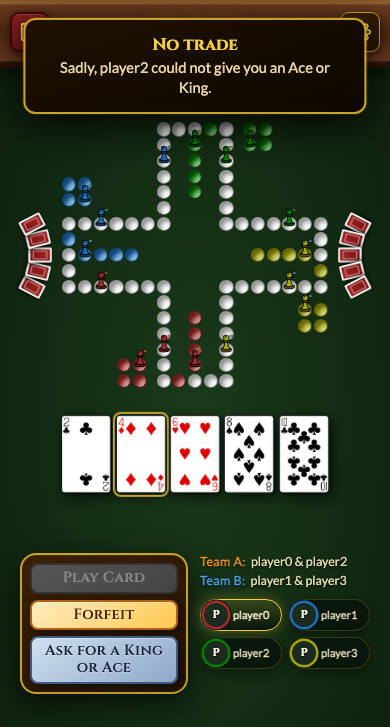
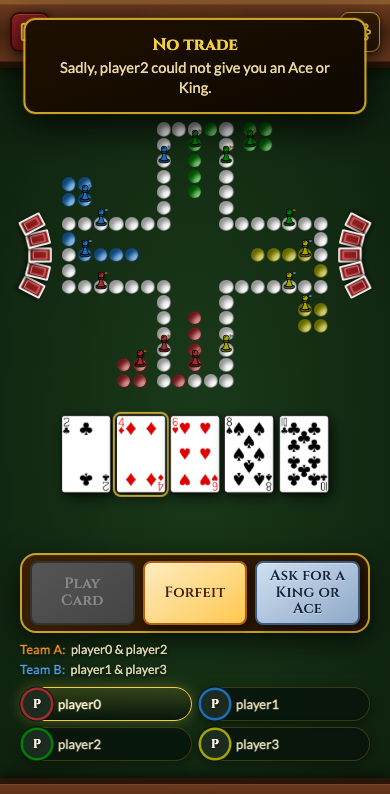
feat(mobile): play/forfeit in one row, roster full width below
The buttons share one row and the roster spans the screen under them,
so player names are no longer cut off after a few letters. The 7-split
takes the roster's place while it is open. The board now measures the
controls and takes exactly the height left, so a big game no longer
pushes its last players under the footer.

diff --git a/frontend/src/app/features/board/board.scss b/frontend/src/app/features/board/board.scss
@@ -187,17 +187,14 @@
 // Sized as a fraction of the board so it scales; carries NO card value.
 // Button container — ported from the GWT .buttonContainer/.sendButton/.forfeitButton.
 // A dark gold-bordered panel beside the board with the play (send) + forfeit buttons.
-// Actions + roster. Mobile: two anchored halves on one row — the buttons keep their
-// width on the left, the roster fills the rest and runs out toward the right edge (so
-// player names get as much room as the screen allows). Desktop: a column pinned in the
-// right gutter (which has plenty of room), roster enlarged.
+// Actions + roster. Mobile: the buttons side by side in one row, the roster below them
+// across the full width (so player names get as much room as the screen allows).
+// Desktop: a column pinned in the right gutter (which has plenty of room), roster enlarged.
 .controls {
-  display: grid;
-  // buttons take their content width; the roster (minmax(0,…) so it may shrink, not
-  // overflow) fills from there out to the right padding below.
-  grid-template-columns: auto minmax(0, 1fr);
-  align-items: start;
-  column-gap: 12px;
+  display: flex;
+  flex-direction: column;
+  align-items: stretch;
+  gap: 10px;
   width: 100%;
   box-sizing: border-box; // keep the padded row within the viewport
   margin-top: 8px;
@@ -222,6 +219,20 @@
     gap: 18px;
     z-index: 200;
   }
+}
+
+// The roster and, on a phone, the 7-split stacked in one grid cell: the split covers the roster
+// while it is open, and the cell keeps the taller one's height so nothing below shifts.
+.controls__roster-slot {
+  display: grid;
+
+  > * {
+    grid-area: 1 / 1;
+  }
+}
+
+.controls__covered {
+  visibility: hidden;
 }
 
 .button-container {
@@ -335,28 +346,42 @@
 }
 
 // Narrow / short screens: the controls sit in flow below the hint, so reserve
-// extra height for them when sizing the board, and cap the buttons so long labels
-// ("Jouer la carte", "Karte spielen") wrap to two lines and the box stays narrow
-// enough to share the row with the roster in every language instead of pushing it
-// onto a second (overflowing) row. Placed last so it overrides the base button
-// rules above (notably the `font` shorthand, which would otherwise reset the size).
+// extra height for them when sizing the board. The buttons share one row, so long
+// labels ("Jouer la carte", "Karte spielen") wrap to two lines rather than pushing
+// the row off the screen. Placed last so it overrides the base button rules above
+// (notably the `font` shorthand, which would otherwise reset the size).
 @media (max-width: 699px) {
   .play {
-    --board-w: min(600px, calc(96vw / 1.24), calc((100dvh - 300px - var(--hint-row-h)) / 1.42));
+    // The height budget leaves room for the header, footer and margins (--phone-chrome-h), the
+    // hint row, and the buttons + roster below the hand, which the board measures (--controls-h):
+    // their height varies with player count, team lines and wrapped button labels, and the board
+    // takes everything that is left — never so much that the roster slides under the footer.
+    --phone-chrome-h: 150px;
+    --board-w: min(
+      600px,
+      calc(96vw / 1.24),
+      calc((100dvh - var(--phone-chrome-h) - var(--controls-h, 100px) - var(--hint-row-h)) / 1.42)
+    );
     // The footer is fixed over the bottom ~48px of the viewport. If content ever overflows and
     // the page scrolls, reserve that height plus the safe-area inset so the last controls row
     // clears the footer instead of hiding behind it.
     padding-bottom: calc(56px + env(safe-area-inset-bottom, 0px));
   }
 
+  // All buttons on one row, sharing it evenly.
   .button-container {
-    padding: 8px;
-    gap: 6px;
-    max-width: 148px;
+    flex-direction: row;
+    padding: 6px 8px;
+    gap: 8px;
+  }
+  .controls {
+    gap: 8px;
   }
   .send-button,
   .forfeit-button,
   .ask-trade-button {
+    flex: 1 1 0;
+    min-width: 0;
     font-size: 11pt;
     padding: 5px 10px;
     letter-spacing: 0.3px;

diff --git a/frontend/src/app/features/board/board.html b/frontend/src/app/features/board/board.html
@@ -1,5 +1,9 @@
 @if (tiles().length) {
-  <div class="play" [class.play--no-hints]="!cardHints.visible()">
+  <div
+    class="play"
+    [class.play--no-hints]="!cardHints.visible()"
+    [style.--controls-h.px]="controlsHeight() || null"
+  >
     <div class="stage">
       <div class="board" [style.--cell]="cell() / 6">
         @for (t of tiles(); track t.playerId + ':' + t.tileNr) {
@@ -54,30 +58,16 @@
          A flow row centered below the hand; the cards stay absolutely positioned so
          a played card can still fly to the pile.
 
-         On a phone the 7-split takes this slot: a full-width band under the hand, rather than a
-         tall block under the buttons that ran off the bottom of the screen. The hint itself goes
-         quiet as soon as a second pawn is picked — by then you are plainly past needing it — but
-         the row keeps its height so nothing below shifts. A player who turned the hints off gets
-         no row at all, and the board takes its height. -->
-    @if (selection.splitVisible() && isPhone()) {
-      <app-split-steps
-        class="split-steps--inline"
-        [steps1]="selection.stepsPawn1()"
-        [steps2]="selection.stepsPawn2()"
-        [color1]="pawn1Highlight()"
-        [color2]="pawn2Highlight()"
-        [label1]="i18n.t('pawn1')"
-        [label2]="i18n.t('pawn2')"
-        (steps1Change)="selection.setStepsPawn1($event)"
-        (steps2Change)="selection.setStepsPawn2($event)"
-      />
-    } @else if (cardHints.visible()) {
+         The hint goes quiet as soon as a second pawn is picked — by then you are plainly past
+         needing it — but the row keeps its height so nothing below shifts. A player who turned the
+         hints off gets no row at all, and the board takes its height. -->
+    @if (cardHints.visible()) {
       <div class="card-hint">{{ selection.splitVisible() ? '' : hint() }}</div>
     }
 
-    <!-- Actions + roster. Desktop: a column pinned to the right gutter. Mobile: a
-         row directly below the hint. -->
-    <div class="controls">
+    <!-- Actions + roster. Desktop: a column pinned to the right gutter. Mobile: the buttons in one
+         row below the hint, the roster under them across the full width. -->
+    <div class="controls" #controls>
       <div class="button-container">
         <button class="send-button" [disabled]="!canPlay()" (click)="playCard()">
           {{ i18n.t('playCard') }}
@@ -92,7 +82,7 @@
         }
 
         <!-- 7-split: divide the 7 across the two selected pawns (sum stays 7). The phone
-             layout renders this under the hand instead (see the hint slot above). -->
+             layout puts this in the roster's place instead (see below). -->
         @if (selection.splitVisible() && !isPhone()) {
           <app-split-steps
             [steps1]="selection.stepsPawn1()"
@@ -107,7 +97,26 @@
         }
       </div>
 
-      <app-player-list />
+      <!-- On a phone the 7-split takes the roster's place while it is open: it is your turn, so
+           the roster has nothing to tell you then, and its space is right under the buttons. The
+           roster stays in the cell (only hidden), so the controls keep their height and nothing
+           below jumps when the split appears or goes. -->
+      <div class="controls__roster-slot">
+        <app-player-list [class.controls__covered]="selection.splitVisible() && isPhone()" />
+        @if (selection.splitVisible() && isPhone()) {
+          <app-split-steps
+            class="split-steps--inline"
+            [steps1]="selection.stepsPawn1()"
+            [steps2]="selection.stepsPawn2()"
+            [color1]="pawn1Highlight()"
+            [color2]="pawn2Highlight()"
+            [label1]="i18n.t('pawn1')"
+            [label2]="i18n.t('pawn2')"
+            (steps1Change)="selection.setStepsPawn1($event)"
+            (steps2Change)="selection.setStepsPawn2($event)"
+          />
+        }
+      </div>
     </div>
   </div>
 

diff --git a/frontend/e2e/mobile-layout.spec.ts b/frontend/e2e/mobile-layout.spec.ts
@@ -1,4 +1,6 @@
-import { test, expect } from '@playwright/test';
+import { test, expect, request } from '@playwright/test';
+import { API_URL } from '../playwright.config';
+import { createGame } from './support/seed';
 import { openBoard } from './support/steps';
 
 // Rewrite of MobileLayoutCheck_IT: on the mobile layout the board, the roster and
@@ -49,5 +51,58 @@ test.describe('mobile layout (MobileLayoutCheck_IT)', () => {
 
       await page.context().close();
     });
+  }
+});
+
+// On a phone the roster spans the screen below the buttons, so a big game takes real height — and
+// the footer bar is fixed over the bottom of the screen. The board sizes itself to leave the
+// controls exactly the room they measure; if it took more, the last players would slide under the
+// footer. "On screen" alone doesn't catch that: the footer covers part of the screen.
+const ROSTERS = [
+  { label: '2 players', players: 2 },
+  { label: '8 players', players: 8 },
+  { label: '6 players in teams', players: 6, gameOptions: { teamPlay: true } }, // + team lines
+];
+const PHONES = [
+  { label: 'short phone', width: 375, height: 667 }, // where the board is height-limited
+  { label: 'tall phone', width: 390, height: 844 },
+];
+
+test.describe('phone roster clears the footer', () => {
+  for (const roster of ROSTERS) {
+    for (const phone of PHONES) {
+      for (const hints of ['on', 'off']) {
+        test(`${roster.label} · ${phone.label} · hints ${hints}`, async ({ browser }) => {
+          const api = await request.newContext({ baseURL: API_URL });
+          const { sessionId } = await createGame(api, roster.players, roster.gameOptions);
+          await api.dispose();
+          const ctx = await browser.newContext({ viewport: phone });
+          await ctx.addCookies([
+            { name: 'playerid', value: 'player0', url: 'http://localhost:4300' },
+            { name: 'cardHints', value: hints === 'on' ? '1' : '0', url: 'http://localhost:4300' },
+          ]);
+          const page = await ctx.newPage();
+          await page.goto(`/?sessionid=${sessionId}&playerid=player0`);
+          await expect(page.locator('.chip')).toHaveCount(roster.players);
+
+          const g = await page.evaluate(() => ({
+            lastChipBottom: Math.max(
+              ...[...document.querySelectorAll('.chip')].map(
+                (c) => c.getBoundingClientRect().bottom,
+              ),
+            ),
+            footerTop: document.querySelector('.footer-bar')!.getBoundingClientRect().top,
+            board: document.querySelector('.board')!.getBoundingClientRect(),
+          }));
+
+          expect(g.lastChipBottom, 'the last players slide under the footer').toBeLessThanOrEqual(
+            g.footerTop,
+          );
+          expect(g.board.width, 'the board shrank to nothing').toBeGreaterThan(150);
+
+          await ctx.close();
+        });
+      }
+    }
   }
 });

diff --git a/frontend/e2e/controls-layout.spec.ts b/frontend/e2e/controls-layout.spec.ts
@@ -106,8 +106,8 @@ test.describe('controls + roster placement', () => {
   }
 
   // Selecting a 7 with two pawns reveals the split step boxes. Where they belong depends on the
-  // layout: tucked inside the button box on desktop, but a band under the hand on a phone —
-  // stacked under the buttons they made that column so tall the last row fell off the screen.
+  // layout: tucked inside the button box on desktop, but on a phone in the roster's place right
+  // under the buttons — it is your turn, so the roster has nothing to tell you then.
   for (const vp of VIEWPORTS) {
     for (const lang of LANGS) {
       test(`${vp.name} · ${lang} · 7-split step boxes`, async ({ browser }) => {
@@ -141,6 +141,8 @@ test.describe('controls + roster placement', () => {
           return {
             box: rj('.button-container'),
             controls: rj('.controls'),
+            roster: rj('app-player-list'),
+            rosterHidden: getComputedStyle(document.querySelector('app-player-list')!).visibility,
             split: rj('.pawn-steps'),
             nestedInButtonBox: document.querySelectorAll('.button-container .pawn-steps').length,
             splitParts: [
@@ -168,8 +170,8 @@ test.describe('controls + roster placement', () => {
             );
           }
         } else {
-          // The phone lifts it out into a full-width band above the controls. The rule that
-          // matters there is that all of it is on screen — it used to run off the bottom.
+          // The phone puts it where the roster was: below the buttons, the roster hidden under it.
+          // All of it on screen — it once ran off the bottom.
           expect(g.nestedInButtonBox, 'the phone must not nest the split in the button box').toBe(
             0,
           );
@@ -178,9 +180,13 @@ test.describe('controls + roster placement', () => {
             expect(el.right, 'split control off screen (right)').toBeLessThanOrEqual(g.vw + T);
             expect(el.bottom, 'split control off screen (bottom)').toBeLessThanOrEqual(g.vh + T);
           }
-          expect(g.split!.bottom, 'the split band sits above the controls row').toBeLessThanOrEqual(
-            g.controls!.top + T,
+          expect(g.split!.top, 'the split sits below the buttons').toBeGreaterThanOrEqual(
+            g.box!.bottom - T,
           );
+          expect(g.split!.top, "the split takes the roster's place").toBeGreaterThanOrEqual(
+            g.roster!.top - T,
+          );
+          expect(g.rosterHidden, 'the roster is hidden under the split').toBe('hidden');
         }
         // Controls and every chip stay on screen.
         expect(g.controls!.left).toBeGreaterThanOrEqual(-T);

diff --git a/frontend/src/app/features/board/board.ts b/frontend/src/app/features/board/board.ts
@@ -4,7 +4,9 @@ import {
   inject,
   computed,
   effect,
+  ElementRef,
   untracked,
+  viewChild,
   OnInit,
   OnDestroy,
 } from '@angular/core';
@@ -20,6 +22,7 @@ import {
 } from '../../api';
 import { finalize } from 'rxjs';
 import { buildBoard } from './geometry/board-geometry';
+import { measuredHeight } from './geometry/measured-height';
 import { resolveGameSession } from '../../session';
 import { basePath } from '../../base-path';
 import { SoundService } from '../../sound.service';
@@ -158,6 +161,13 @@ export class Board implements OnInit, OnDestroy {
       : [];
   });
   protected readonly cell = computed(() => this.geometry()?.cellDistance ?? 0);
+  /**
+   * The buttons + roster height. On a phone they sit below the hand, and the board is sized to
+   * leave them exactly that room (board.scss) — however many players, team lines or wrapped
+   * button labels there are — so it grows as large as it can without pushing them under the footer.
+   */
+  private readonly controls = viewChild<ElementRef<HTMLElement>>('controls');
+  protected readonly controlsHeight = measuredHeight(this.controls);
 
   // Pawn move animation: a small engine that walks pawns along pixel waypoints and exposes their
   // live positions; the `pawns` computed reads those to place a pawn mid-move (see below).

diff --git a/frontend/src/app/features/player-list/player-list.scss b/frontend/src/app/features/player-list/player-list.scss
@@ -191,9 +191,9 @@
   }
 }
 
-// Mobile: the roster fills its grid column (from the buttons out toward the right edge),
-// its chips laid out in a tidy 2-column grid that widens with the screen — so names get
-// as much room as there is. Even an 8-player game stays two columns (4 rows).
+// Mobile: the roster spans the full width below the buttons, its chips laid out in a tidy
+// 2-column grid that widens with the screen — so names get as much room as there is. Even
+// an 8-player game stays two columns (4 rows).
 @media (max-width: 699px) {
   :host {
     max-width: none;
@@ -204,18 +204,18 @@
     flex: 0 1 calc(50% - 3px);
     min-width: 0;
     box-sizing: border-box;
-    padding: 3px 7px 3px 3px;
-    gap: 5px;
+    padding: 2px 10px 2px 2px;
+    gap: 7px;
   }
   .chip__avatar {
-    width: 24px;
-    height: 24px;
+    width: 28px;
+    height: 28px;
   }
   .chip__initial {
-    font-size: 11px;
+    font-size: 12px;
   }
   .chip__name {
-    font-size: 11px;
+    font-size: 13px;
   }
   // Team membership is already spelled out in the summary lines above, and the current
   // player is shown by the gold chip highlight — so drop these inline badges on mobile

diff --git a/frontend/src/app/features/board/geometry/measured-height.ts b/frontend/src/app/features/board/geometry/measured-height.ts
@@ -1,0 +1,19 @@
+import { effect, ElementRef, signal, Signal } from '@angular/core';
+
+/**
+ * The live height, in px, of the element `element` points at — 0 until it is laid out, or where
+ * the browser can't measure it (no ResizeObserver, as under jsdom). Call in an injection context.
+ */
+export function measuredHeight(
+  element: Signal<ElementRef<HTMLElement> | undefined>,
+): Signal<number> {
+  const height = signal(0);
+  effect((onCleanup) => {
+    const el = element()?.nativeElement;
+    if (!el || typeof ResizeObserver === 'undefined') return;
+    const observer = new ResizeObserver(() => height.set(el.offsetHeight));
+    observer.observe(el);
+    onCleanup(() => observer.disconnect());
+  });
+  return height.asReadonly();
+}
